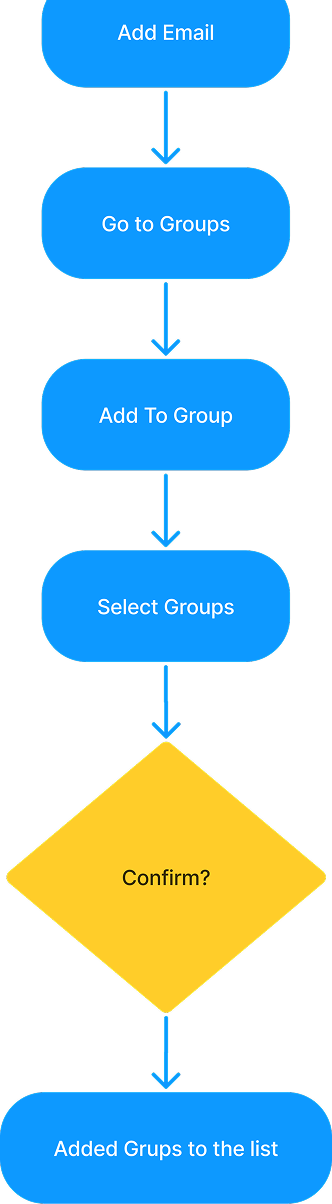
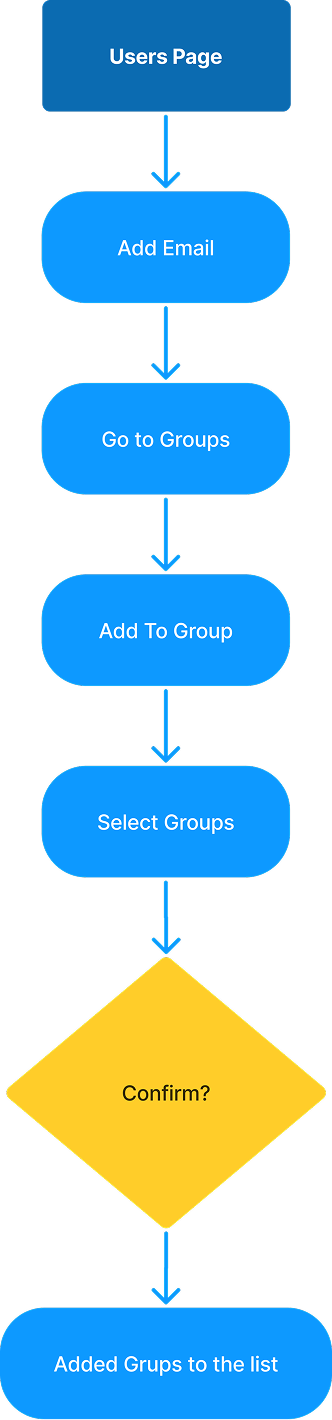
Scandlearn: full old flows, notes as speech bubbles beside the steps
Claude-Session: https://claude.ai/code/session_01UAuYD3GSVDpo2nKg4qsctN

diff --git a/scandlearn/index.html b/scandlearn/index.html
@@ -8,8 +8,8 @@
 <link rel="preconnect" href="https://fonts.googleapis.com">
 <link rel="preconnect" href="https://fonts.gstatic.com" crossorigin>
 <link href="https://fonts.googleapis.com/css2?family=Geist:wght@400;500;600&family=Instrument+Serif:ital@0;1&display=swap" rel="stylesheet">
-<link rel="stylesheet" href="../styles.css?v=202611172116">
-<link rel="stylesheet" href="../case.css?v=202611172116">
+<link rel="stylesheet" href="../styles.css?v=202611172120">
+<link rel="stylesheet" href="../case.css?v=202611172120">
 
 </head>
 <body class="cs dark-stage v2 dark-end scandlearn">
@@ -33,10 +33,10 @@
   <div class="tldr"><p class="tldr-h">The short version</p><ol><li><a href="#navigation"><b>Each role sees its own pages first.</b> Seven clear sections replaced a sitemap where some pages sat seven levels deep.</a></li><li><a href="#search"><b>Search became the main way around.</b> One search across trainings, modules, users and materials, one ⌘K away.</a></li><li><a href="#flows"><b>No more starting over.</b> Curriculum content is picked from one filtered list, so cancelling no longer throws your work away.</a></li></ol></div>
   </div>
   <nav class="chapters" aria-label="Sections"><div><a href="#problem">Problem</a><a href="#research">Research</a><a href="#navigation">Navigation</a><a href="#search">Search</a><a href="#flows">Flows</a><a href="#training-list">Training list</a><a href="#learners">Learners</a><a href="#components">Components</a><a href="#outcome">Outcome</a></div></nav>
-  <article class="cs-body"><section id="problem" class=""><h2>The problem</h2><div class="split"><p class="big-stat">21<small>steps to publish one training</small></p><p>Support was stretched thin because users couldn't find features. The 2020 handbook sent to me on day one needed 21 numbered steps just to publish a training. In interviews and a survey, people called it "a frustrating maze".</p></div><p>Screens of the old platform, from that handbook. Click any screen to see it whole.</p><figure class="wide old"><div class="old-shot"><img src="../assets/sl-old-crew.webp" alt="The old Crew page: an icon rail, a second column of role and status filters, then the user list. Names and emails are blurred." loading="lazy"><p class="old-strip"><span>Before</span><span>Old version</span></p></div><figcaption>Before: an icon rail, then a filter column, then the list. Three layers of menus before any content.</figcaption></figure><figure class="wide old"><div class="old-shot"><img src="../assets/sl-old-settings.webp" alt="The old Create Training settings: schedule, availability, expiry, expiry cycle, new session, notifications, certificate and survey." loading="lazy"><p class="old-strip"><span>Before</span><span>Old version</span></p></div><figcaption>Before: the last of four tabs every new training went through</figcaption></figure><p><b>Mapping it showed why.</b> Some pages sat seven levels deep. Cancelling meant starting over, and steps repeated.</p><figure class="wide"><img src="../assets/sl-old-sitemap.webp" alt="The old sitemap drawn as levels 0 to 7, with notification and user attribute settings at level 7." loading="lazy"><figcaption>The old sitemap: some pages sat seven levels deep</figcaption></figure><figure class="wide fa-board"><div class="fa-grid"><div class="fa-card"><p class="fa-t">Adding curriculum</p><p class="fa-note">Cancelling forces users to restart from scratch.</p><img src="../assets/sl-fa-curriculum.webp" alt="Old flow: Curriculum page, Add curriculum, Select type, Add item, Confirm, Add to the list. Cancel at Add item goes back to the Curriculum page." loading="lazy"></div><div class="fa-card"><p class="fa-t">Adding a user to a group</p><p class="fa-note">Redundant steps slow down progress.</p><img src="../assets/sl-fa-group.webp" alt="Old flow: Add email, Go to Groups, Add to group, Select groups, Confirm, then the groups are added to the list." loading="lazy"></div><div class="fa-card"><p class="fa-t">Opening a module</p><p class="fa-note">Deep navigation levels slow down core tasks.</p><img src="../assets/sl-fa-module.webp" alt="Old flow: Creative Studio, Modules, Filter by draft, Open module." loading="lazy"></div></div><figcaption><img class="fa-light" src="../assets/sl-fa-light.webp" alt="" width="40" height="45">Flow analysis: where the old flows broke</figcaption></figure></section><section id="research" class="band"><h2>What users and rivals told me</h2><p>In the survey, most people named the system itself as the most frustrating part, ahead of courses, navigation or control.</p><p>I compared Scandlearn with CPaT, Aviation eLearning, Evionica, Leon and Webmanuals. The rivals looked modern but gave admins little control over courses and staff. Scandlearn had that control but buried it under an outdated, crowded interface. So the brief became: <b>keep the control, lose the maze.</b></p><div class="pair"><figure class=""><img src="../assets/sl-survey.webp" alt="Four survey charts, from part of the 30 respondents: comfort with digital platforms, the most frustrating part of the system, apps used most, and the pros of those apps." loading="lazy"><figcaption>Survey charts from part of the 30 respondents, not the whole group</figcaption></figure><figure class=""><img src="../assets/sl-roles.webp" alt="Each role, from Administrator to Learner, Author, Financial and Protocol Manager, with the pages it needs, marked by priority." loading="lazy"><figcaption>Each role and the pages it needs, ranked by use</figcaption></figure></div><figure class="wide"><img src="../assets/sl-competitors.webp" alt="Competitor matrix comparing Scandlearn, CPaT, Aviation eLearning and Evionica on value proposition, advantages, disadvantages and design details." loading="lazy"><figcaption>Competitor analysis</figcaption></figure></section><section id="navigation" class=""><h2>Navigation by role</h2><p>Admins, authors, instructors and learners need different things. Starting from the role map, I rebuilt the sitemap into seven main sections, each with a few groups, so every role sees its own pages first. Global search, a left panel and a tree of tabs tie them together.</p><figure class="wide"><img src="../assets/sl-new-sitemap.webp" alt="The new sitemap: main navigation with global search, left panel menu and tabs tree view, over seven sections from Dashboard to Configuration." loading="lazy"><figcaption>The new sitemap</figcaption></figure><p><b>The dashboard opens on what needs attention.</b> Key numbers, the latest activity, quick actions to add a training, invite users or make a group, and notifications.</p><figure class="wide board board-dash"><div class="m-stack" role="img" aria-label="Admin dashboard: users enrolled, trainings and currencies, a feed of reports, quick actions for new training, invite users and new group, and notifications."><div class="bd-a"><p class="m-label">At a glance: what needs attention today.</p><div class="m-row "><img class="m-shot" src="../assets/m/dash-stats.webp" data-full="../assets/sl-dashboard.webp" alt="" loading="lazy"></div></div><div class="bd-b"><div class="m-row "><img class="m-shot" src="../assets/m/dash-reports.webp" data-full="../assets/sl-dashboard.webp" alt="" loading="lazy"></div></div><div class="bd-c"><p class="m-label">Quick actions for the most common jobs.</p><div class="m-row "><img class="m-qa" src="../assets/m/qa-0.webp" data-full="../assets/sl-dashboard.webp" alt="" loading="lazy"><img class="m-qa" src="../assets/m/qa-1.webp" data-full="../assets/sl-dashboard.webp" alt="" loading="lazy"></div></div></div><figcaption>The admin dashboard</figcaption></figure></section><section id="search" class="band"><h2>Search as the main way around</h2><p>More menus don't fix findability. One search covers trainings, modules, users and materials, with type filters, a ⌘K shortcut and recent searches, so admins jump straight to what they need.</p><p></p><figure class="wide board board-search"><div class="m-stack" role="img" aria-label="Global search: filter chips for trainings, modules, users and materials, the ⌘K search bar, recent searches and a filtered list of trainings."><div class="bd-a"><p class="m-label">Filter by trainings, modules, users or materials.</p><div class="m-row chips"><img class="m-chip" src="../assets/m/chip-0.webp" data-full="../assets/sl-search.webp" alt="" loading="lazy"><img class="m-chip" src="../assets/m/chip-1.webp" data-full="../assets/sl-search.webp" alt="" loading="lazy"><img class="m-chip" src="../assets/m/chip-2.webp" data-full="../assets/sl-search.webp" alt="" loading="lazy"><img class="m-chip" src="../assets/m/chip-3.webp" data-full="../assets/sl-search.webp" alt="" loading="lazy"></div></div><div class="bd-b"><p class="m-label">⌘K opens search from anywhere.</p><div class="m-row "><img class="m-shot" src="../assets/m/search-bar.webp" data-full="../assets/sl-search.webp" alt="" loading="lazy"></div></div><div class="bd-c"><div class="m-row "><img class="m-shot" src="../assets/m/search-results.webp" data-full="../assets/sl-search.webp" alt="" loading="lazy"></div></div></div><figcaption>Global search</figcaption></figure></section><section id="flows" class=""><h2>Fewer steps, no starting over</h2><p>I redrew the two flows from the analysis above. Curriculum content is now picked from one list with filters, so cancelling no longer throws your picks away. Inviting a user and adding them to a group happen in one place, with no separate Groups page and no confirm step.</p><div class="pair"><figure class=""><img src="../assets/sl-flow-curriculum-new.webp" alt="New curriculum flow: Curriculum page, Add curriculum, all curriculum content, filter and pick content, updated curriculum page." loading="lazy"><figcaption>Adding curriculum: one filtered list</figcaption></figure><figure class=""><img src="../assets/sl-flow-invite-new.webp" alt="New invite flow: from the home page to Users and Groups, add an email and invite, pick groups in a popup, and the list updates." loading="lazy"><figcaption>Inviting a user: invite and group in one place</figcaption></figure></div></section><section id="training-list" class="band"><h2>The training list in three rounds</h2><p>Admins spend most of their day in the training list, so I took it through three rounds. The first wireframe tested the layout. The second moved filters into a side panel and let a row open in place, showing its courses with links straight to each part of the training. The final version put navigation in one sidebar, moved search, columns and filters into the toolbar, and shows who is enrolled at a glance.</p><div class="pair"><figure class=""><img src="../assets/sl-list-v1.webp" alt="First wireframe of the training list: a profile panel, a menu, column filters and a long table." loading="lazy"><figcaption>Round 1: wireframe</figcaption></figure><figure class=""><img src="../assets/sl-list-v2.webp" alt="Second wireframe: a filter panel on the left and one training row opened in place, listing its courses and links to details, curriculum, enrollment, schedule, certification, skills test and survey." loading="lazy"><figcaption>Round 2: a row opens in place</figcaption></figure></div><figure class="wide"><img src="../assets/sl-list-final.webp" alt="Final Training Management screen: dark sidebar with sub-pages, a toolbar with search, columns and filters, and a table with type, enrolled people and status." loading="lazy"><figcaption>Final: Training Management</figcaption></figure></section><section id="learners" class=""><h2>What learners see</h2><p>Learners need two things: what to do next and where they stand. Their list shows progress, expiry and one Resume button. Inside a training, the course outline stays on the side with each lesson's status, so nobody loses their place.</p><figure class="wide"><img src="../assets/sl-learner-list.webp" alt="Learner trainings list with tabs for yet to start, in progress and completed, a progress bar per training, expiry dates and a Resume button." loading="lazy"><figcaption>A learner's trainings</figcaption></figure><figure class="wide"><img src="../assets/sl-learner-player.webp" alt="Course player in dark mode: a self-study lesson with a download button, and the course outline on the right with each lesson&#x27;s status." loading="lazy"><figcaption>Inside a training: the outline stays visible</figcaption></figure></section><section id="components" class=""><h2>One component library</h2><p>A shared library of type, colours, inputs, pickers and tables with row actions kept 400+ screens consistent. It also made bigger tools, like the certificate builder, quick to put together.</p><figure class="wide board board-ds"><div class="m-stack" role="img" aria-label="Component library: Montserrat type scale, colour palettes, grid, date picker, dropdown, inputs, toggles, icons and buttons."><div class="bd-a"><p class="m-label">Type scale</p><div class="m-row "><img class="m-shot" src="../assets/m/ds-type.webp" data-full="../assets/sl-design-system.webp" alt="" loading="lazy"></div></div><div class="bd-b"><p class="m-label">Inputs and pickers</p><div class="m-row "><img class="m-shot" src="../assets/m/ds-calendar.webp" data-full="../assets/sl-design-system.webp" alt="" loading="lazy"><img class="m-card" src="../assets/m/ds-dropdown.webp" data-full="../assets/sl-design-system.webp" alt="" loading="lazy"></div></div><div class="bd-c"><p class="m-label">Colour</p><div class="m-row "><img class="m-shot" src="../assets/m/ds-colours.webp" data-full="../assets/sl-design-system.webp" alt="" loading="lazy"></div></div></div><figcaption>The component library</figcaption></figure><figure class="wide"><img src="../assets/sl-cert-builder.webp" alt="Certificate builder: drag rows, text boxes and images into a certificate, edit text in place, then save or use a template." loading="lazy"><figcaption>Built from the library: the certificate builder</figcaption></figure></section><section id="outcome" class=""><h2>Outcome</h2><div class="split"><p class="big-stat">400+<small>screens handed over to development</small></p><p>The client kept me on for 4 more months to design a new website, a video player and a CBTA (competency-based training) feature. I left before the build finished, so I have no usage numbers.</p></div></section><section class="lesson"><h2>What I'd do differently</h2><p class="lesson-big">Plan the second survey before the first one ends.</p><p>We had a baseline, the survey, but no plan to measure again. Next time I'd agree before handover to rerun it after launch.</p></section></article>
+  <article class="cs-body"><section id="problem" class=""><h2>The problem</h2><div class="split"><p class="big-stat">21<small>steps to publish one training</small></p><p>Support was stretched thin because users couldn't find features. The 2020 handbook sent to me on day one needed 21 numbered steps just to publish a training. In interviews and a survey, people called it "a frustrating maze".</p></div><p>Screens of the old platform, from that handbook. Click any screen to see it whole.</p><figure class="wide old"><div class="old-shot"><img src="../assets/sl-old-crew.webp" alt="The old Crew page: an icon rail, a second column of role and status filters, then the user list. Names and emails are blurred." loading="lazy"><p class="old-strip"><span>Before</span><span>Old version</span></p></div><figcaption>Before: an icon rail, then a filter column, then the list. Three layers of menus before any content.</figcaption></figure><figure class="wide old"><div class="old-shot"><img src="../assets/sl-old-settings.webp" alt="The old Create Training settings: schedule, availability, expiry, expiry cycle, new session, notifications, certificate and survey." loading="lazy"><p class="old-strip"><span>Before</span><span>Old version</span></p></div><figcaption>Before: the last of four tabs every new training went through</figcaption></figure><p><b>Mapping it showed why.</b> Some pages sat seven levels deep. Cancelling meant starting over, and steps repeated.</p><figure class="wide"><img src="../assets/sl-old-sitemap.webp" alt="The old sitemap drawn as levels 0 to 7, with notification and user attribute settings at level 7." loading="lazy"><figcaption>The old sitemap: some pages sat seven levels deep</figcaption></figure><figure class="wide fa-board"><div class="fa-grid"><div class="fa-card"><p class="fa-t">Adding curriculum</p><div class="fa-flow" style="--w:210px"><img src="../assets/sl-fa-curriculum.webp" alt="Old flow: Curriculum page, Add curriculum, Select type, Add item, Confirm, Add to the list. Cancel at Add item goes back to the Curriculum page." loading="lazy"><p class="fa-bub fa-l" style="top:20%">Cancelling forces users to restart from scratch.</p></div></div><div class="fa-card"><p class="fa-t">Adding a user to a group</p><div class="fa-flow" style="--w:160px"><img src="../assets/sl-fa-group.webp" alt="Old flow: Users page, Add email, Go to Groups, Add to group, Select groups, Confirm, then the groups are added to the list." loading="lazy"><p class="fa-bub fa-l" style="top:29%">Redundant steps slow down progress.</p></div></div><div class="fa-card"><p class="fa-t">Opening a module</p><div class="fa-flow" style="--w:138px"><img src="../assets/sl-fa-module.webp" alt="Old flow: Home page, Training, Creative Studio, Modules, Filter by draft, Open module." loading="lazy"><p class="fa-bub fa-l" style="top:33%">Deep navigation levels slow down core tasks.</p></div></div></div><figcaption><img class="fa-light" src="../assets/sl-fa-light.webp" alt="" width="40" height="45">Flow analysis: where the old flows broke</figcaption></figure></section><section id="research" class="band"><h2>What users and rivals told me</h2><p>In the survey, most people named the system itself as the most frustrating part, ahead of courses, navigation or control.</p><p>I compared Scandlearn with CPaT, Aviation eLearning, Evionica, Leon and Webmanuals. The rivals looked modern but gave admins little control over courses and staff. Scandlearn had that control but buried it under an outdated, crowded interface. So the brief became: <b>keep the control, lose the maze.</b></p><div class="pair"><figure class=""><img src="../assets/sl-survey.webp" alt="Four survey charts, from part of the 30 respondents: comfort with digital platforms, the most frustrating part of the system, apps used most, and the pros of those apps." loading="lazy"><figcaption>Survey charts from part of the 30 respondents, not the whole group</figcaption></figure><figure class=""><img src="../assets/sl-roles.webp" alt="Each role, from Administrator to Learner, Author, Financial and Protocol Manager, with the pages it needs, marked by priority." loading="lazy"><figcaption>Each role and the pages it needs, ranked by use</figcaption></figure></div><figure class="wide"><img src="../assets/sl-competitors.webp" alt="Competitor matrix comparing Scandlearn, CPaT, Aviation eLearning and Evionica on value proposition, advantages, disadvantages and design details." loading="lazy"><figcaption>Competitor analysis</figcaption></figure></section><section id="navigation" class=""><h2>Navigation by role</h2><p>Admins, authors, instructors and learners need different things. Starting from the role map, I rebuilt the sitemap into seven main sections, each with a few groups, so every role sees its own pages first. Global search, a left panel and a tree of tabs tie them together.</p><figure class="wide"><img src="../assets/sl-new-sitemap.webp" alt="The new sitemap: main navigation with global search, left panel menu and tabs tree view, over seven sections from Dashboard to Configuration." loading="lazy"><figcaption>The new sitemap</figcaption></figure><p><b>The dashboard opens on what needs attention.</b> Key numbers, the latest activity, quick actions to add a training, invite users or make a group, and notifications.</p><figure class="wide board board-dash"><div class="m-stack" role="img" aria-label="Admin dashboard: users enrolled, trainings and currencies, a feed of reports, quick actions for new training, invite users and new group, and notifications."><div class="bd-a"><p class="m-label">At a glance: what needs attention today.</p><div class="m-row "><img class="m-shot" src="../assets/m/dash-stats.webp" data-full="../assets/sl-dashboard.webp" alt="" loading="lazy"></div></div><div class="bd-b"><div class="m-row "><img class="m-shot" src="../assets/m/dash-reports.webp" data-full="../assets/sl-dashboard.webp" alt="" loading="lazy"></div></div><div class="bd-c"><p class="m-label">Quick actions for the most common jobs.</p><div class="m-row "><img class="m-qa" src="../assets/m/qa-0.webp" data-full="../assets/sl-dashboard.webp" alt="" loading="lazy"><img class="m-qa" src="../assets/m/qa-1.webp" data-full="../assets/sl-dashboard.webp" alt="" loading="lazy"></div></div></div><figcaption>The admin dashboard</figcaption></figure></section><section id="search" class="band"><h2>Search as the main way around</h2><p>More menus don't fix findability. One search covers trainings, modules, users and materials, with type filters, a ⌘K shortcut and recent searches, so admins jump straight to what they need.</p><p></p><figure class="wide board board-search"><div class="m-stack" role="img" aria-label="Global search: filter chips for trainings, modules, users and materials, the ⌘K search bar, recent searches and a filtered list of trainings."><div class="bd-a"><p class="m-label">Filter by trainings, modules, users or materials.</p><div class="m-row chips"><img class="m-chip" src="../assets/m/chip-0.webp" data-full="../assets/sl-search.webp" alt="" loading="lazy"><img class="m-chip" src="../assets/m/chip-1.webp" data-full="../assets/sl-search.webp" alt="" loading="lazy"><img class="m-chip" src="../assets/m/chip-2.webp" data-full="../assets/sl-search.webp" alt="" loading="lazy"><img class="m-chip" src="../assets/m/chip-3.webp" data-full="../assets/sl-search.webp" alt="" loading="lazy"></div></div><div class="bd-b"><p class="m-label">⌘K opens search from anywhere.</p><div class="m-row "><img class="m-shot" src="../assets/m/search-bar.webp" data-full="../assets/sl-search.webp" alt="" loading="lazy"></div></div><div class="bd-c"><div class="m-row "><img class="m-shot" src="../assets/m/search-results.webp" data-full="../assets/sl-search.webp" alt="" loading="lazy"></div></div></div><figcaption>Global search</figcaption></figure></section><section id="flows" class=""><h2>Fewer steps, no starting over</h2><p>I redrew the two flows from the analysis above. Curriculum content is now picked from one list with filters, so cancelling no longer throws your picks away. Inviting a user and adding them to a group happen in one place, with no separate Groups page and no confirm step.</p><div class="pair"><figure class=""><img src="../assets/sl-flow-curriculum-new.webp" alt="New curriculum flow: Curriculum page, Add curriculum, all curriculum content, filter and pick content, updated curriculum page." loading="lazy"><figcaption>Adding curriculum: one filtered list</figcaption></figure><figure class=""><img src="../assets/sl-flow-invite-new.webp" alt="New invite flow: from the home page to Users and Groups, add an email and invite, pick groups in a popup, and the list updates." loading="lazy"><figcaption>Inviting a user: invite and group in one place</figcaption></figure></div></section><section id="training-list" class="band"><h2>The training list in three rounds</h2><p>Admins spend most of their day in the training list, so I took it through three rounds. The first wireframe tested the layout. The second moved filters into a side panel and let a row open in place, showing its courses with links straight to each part of the training. The final version put navigation in one sidebar, moved search, columns and filters into the toolbar, and shows who is enrolled at a glance.</p><div class="pair"><figure class=""><img src="../assets/sl-list-v1.webp" alt="First wireframe of the training list: a profile panel, a menu, column filters and a long table." loading="lazy"><figcaption>Round 1: wireframe</figcaption></figure><figure class=""><img src="../assets/sl-list-v2.webp" alt="Second wireframe: a filter panel on the left and one training row opened in place, listing its courses and links to details, curriculum, enrollment, schedule, certification, skills test and survey." loading="lazy"><figcaption>Round 2: a row opens in place</figcaption></figure></div><figure class="wide"><img src="../assets/sl-list-final.webp" alt="Final Training Management screen: dark sidebar with sub-pages, a toolbar with search, columns and filters, and a table with type, enrolled people and status." loading="lazy"><figcaption>Final: Training Management</figcaption></figure></section><section id="learners" class=""><h2>What learners see</h2><p>Learners need two things: what to do next and where they stand. Their list shows progress, expiry and one Resume button. Inside a training, the course outline stays on the side with each lesson's status, so nobody loses their place.</p><figure class="wide"><img src="../assets/sl-learner-list.webp" alt="Learner trainings list with tabs for yet to start, in progress and completed, a progress bar per training, expiry dates and a Resume button." loading="lazy"><figcaption>A learner's trainings</figcaption></figure><figure class="wide"><img src="../assets/sl-learner-player.webp" alt="Course player in dark mode: a self-study lesson with a download button, and the course outline on the right with each lesson&#x27;s status." loading="lazy"><figcaption>Inside a training: the outline stays visible</figcaption></figure></section><section id="components" class=""><h2>One component library</h2><p>A shared library of type, colours, inputs, pickers and tables with row actions kept 400+ screens consistent. It also made bigger tools, like the certificate builder, quick to put together.</p><figure class="wide board board-ds"><div class="m-stack" role="img" aria-label="Component library: Montserrat type scale, colour palettes, grid, date picker, dropdown, inputs, toggles, icons and buttons."><div class="bd-a"><p class="m-label">Type scale</p><div class="m-row "><img class="m-shot" src="../assets/m/ds-type.webp" data-full="../assets/sl-design-system.webp" alt="" loading="lazy"></div></div><div class="bd-b"><p class="m-label">Inputs and pickers</p><div class="m-row "><img class="m-shot" src="../assets/m/ds-calendar.webp" data-full="../assets/sl-design-system.webp" alt="" loading="lazy"><img class="m-card" src="../assets/m/ds-dropdown.webp" data-full="../assets/sl-design-system.webp" alt="" loading="lazy"></div></div><div class="bd-c"><p class="m-label">Colour</p><div class="m-row "><img class="m-shot" src="../assets/m/ds-colours.webp" data-full="../assets/sl-design-system.webp" alt="" loading="lazy"></div></div></div><figcaption>The component library</figcaption></figure><figure class="wide"><img src="../assets/sl-cert-builder.webp" alt="Certificate builder: drag rows, text boxes and images into a certificate, edit text in place, then save or use a template." loading="lazy"><figcaption>Built from the library: the certificate builder</figcaption></figure></section><section id="outcome" class=""><h2>Outcome</h2><div class="split"><p class="big-stat">400+<small>screens handed over to development</small></p><p>The client kept me on for 4 more months to design a new website, a video player and a CBTA (competency-based training) feature. I left before the build finished, so I have no usage numbers.</p></div></section><section class="lesson"><h2>What I'd do differently</h2><p class="lesson-big">Plan the second survey before the first one ends.</p><p>We had a baseline, the survey, but no plan to measure again. Next time I'd agree before handover to rerun it after launch.</p></section></article>
   <a class="next" href="../fancircle/"><span class="next-text"><span class="next-k">Next case study</span><b>How do new artists find their first true fans?</b><em>Fancircle<i aria-hidden="true">→</i></em></span><span class="next-img"><img src="../assets/thumb-fancircle.webp" alt="" loading="lazy"></span></a>
 </main>
 <footer class="contact close"><div class="close-in"><p class="close-k">Hiring a product designer?</p><h2>Let's talk.</h2><p class="close-sub">Open to remote roles in EU and US time zones.</p><div class="close-ctas"><span class="cta-split"><a class="cta-y" href="mailto:gencberisha3@gmail.com">Email me</a><button type="button" class="cta-copy" data-copy="gencberisha3@gmail.com" aria-label="Copy email address" title="Copy email address"><svg class="i-copy" width="18" height="18" viewBox="0 0 24 24" fill="none" stroke="currentColor" stroke-width="2" stroke-linecap="round" stroke-linejoin="round" aria-hidden="true"><rect x="9" y="9" width="12" height="12" rx="2.5"/><path d="M5 15H4.5A1.5 1.5 0 0 1 3 13.5v-9A1.5 1.5 0 0 1 4.5 3h9A1.5 1.5 0 0 1 15 4.5V5"/></svg><svg class="i-ok" width="18" height="18" viewBox="0 0 24 24" fill="none" stroke="currentColor" stroke-width="2.4" stroke-linecap="round" stroke-linejoin="round" aria-hidden="true"><path d="M5 12.5l4.5 4.5L19 7.5"/></svg><span class="cta-tip" aria-live="polite"></span></button></span><a class="cta-o" href="../genc-berisha-cv.pdf">Download CV</a><a class="cta-o" href="https://www.linkedin.com/in/genc-berisha">LinkedIn</a></div><p class="fine">© 2026 Genc Berisha · The Qualia Lab</p></div><div class="close-lines" aria-hidden="true"></div></footer>
-<script src="../case.js?v=202611172116"></script>
+<script src="../case.js?v=202611172120"></script>
 </body>
 </html>

diff --git a/case.css b/case.css
@@ -493,7 +493,7 @@ html{overflow-x:clip}
 .cs figure.fa-board .fa-grid{display:grid;grid-template-columns:repeat(3,minmax(0,1fr));gap:20px;align-items:stretch}
 .cs .fa-card{display:flex;flex-direction:column;align-items:center;padding:28px 24px 32px;border-radius:24px;background:rgba(255,255,255,.72);box-shadow:0 1px 0 rgba(20,30,70,.05),0 24px 50px -30px rgba(20,30,70,.35)}
 .cs .fa-card .fa-t{align-self:stretch;margin:0 0 10px;font-size:17px;font-weight:600;color:var(--ink,#16161a)}
-.cs .fa-card .fa-note{align-self:stretch;margin:0 0 28px;padding:10px 14px;border-radius:10px;background:#F21B1B;color:#fff;font-size:15px;font-weight:500;line-height:1.35}
+.cs .fa-card .fa-note-old{align-self:stretch;margin:0 0 28px;padding:10px 14px;border-radius:10px;background:#F21B1B;color:#fff;font-size:15px;font-weight:500;line-height:1.35}
 .cs figure .fa-card img{display:block;width:auto;max-width:100%;max-height:600px;height:auto;border-radius:0;box-shadow:none;background:none;margin:auto 0 0}
 .cs .fa-card img[src*="module"]{max-height:386px}
 .cs .fa-card img[src*="group"]{max-height:600px}
@@ -501,3 +501,19 @@ html{overflow-x:clip}
 .cs figure.fa-board figcaption .fa-light{width:40px;height:auto;margin:-10px 0;border-radius:0;box-shadow:none;background:none}
 @media (max-width:767px){.cs figure.fa-board .fa-grid{grid-template-columns:minmax(0,1fr);gap:16px}.cs .fa-card img{max-height:520px}}
 .cs figure .fa-card img{margin:0}.cs figure.fa-board figcaption .fa-light{width:56px;margin:-14px -6px -14px 0}
+/* Flow notes as speech bubbles (2026-11-17) */
+.cs .fa-card .fa-flow{position:relative;max-width:100%;margin:8px auto 0}
+.cs figure .fa-card .fa-flow img{width:100%;max-height:none}
+.cs .fa-bub{position:absolute;z-index:2;width:150px;margin:0;padding:10px 12px;border-radius:14px;background:#F21B1B;color:#fff;font-size:14px;font-weight:500;line-height:1.3;box-shadow:0 12px 24px -10px rgba(160,10,10,.55)}
+.cs .fa-bub::before{content:"";position:absolute;width:14px;height:14px;background:#F21B1B;transform:rotate(45deg);border-radius:2px}
+.cs .fa-bub.fa-l::before{left:-5px;top:16px}
+.cs .fa-bub.fa-tl::before{left:18px;top:-5px}
+.cs .fa-card{padding-right:24px;overflow:visible}
+@media (min-width:768px){.cs .fa-card .fa-flow{margin-left:max(0px,calc(50% - 150px))}}
+@media (max-width:767px){.cs .fa-card .fa-flow{margin-left:max(0px,calc(50% - 150px))}}
+.cs .fa-card .fa-flow{width:min(var(--w),calc(100% - 150px));margin:8px auto 0 0!important}
+.cs .fa-card .fa-flow-wrap{display:block}
+.cs .fa-bub{left:calc(100% + 12px);width:136px}
+.cs .fa-card{align-items:stretch;padding-left:clamp(20px,3vw,32px)}
+@media (min-width:768px){.cs .fa-card .fa-flow{margin-left:max(0px,calc((100% - var(--w) - 148px)/2))!important}}
+@media (min-width:768px){.cs figure.fa-board .fa-grid{grid-template-columns:1.3fr 1fr 1fr}}

diff --git a/career-navig8r/index.html b/career-navig8r/index.html
@@ -8,8 +8,8 @@
 <link rel="preconnect" href="https://fonts.googleapis.com">
 <link rel="preconnect" href="https://fonts.gstatic.com" crossorigin>
 <link href="https://fonts.googleapis.com/css2?family=Geist:wght@400;500;600&family=Instrument+Serif:ital@0;1&display=swap" rel="stylesheet">
-<link rel="stylesheet" href="../styles.css?v=202611172116">
-<link rel="stylesheet" href="../case.css?v=202611172116">
+<link rel="stylesheet" href="../styles.css?v=202611172120">
+<link rel="stylesheet" href="../case.css?v=202611172120">
 
 </head>
 <body class="cs dark-stage v2 dark-end navig8r">
@@ -68,6 +68,6 @@
   <a class="next" href="../scandlearn/"><span class="next-text"><span class="next-k">Next case study</span><b>How do pilots find their training in a system that feels like a maze?</b><em>Scandlearn<i aria-hidden="true">→</i></em></span><span class="next-img"><img src="../assets/thumb-scandlearn.webp" alt="" loading="lazy"></span></a>
 </main>
 <footer class="contact close"><div class="close-in"><p class="close-k">Hiring a product designer?</p><h2>Let's talk.</h2><p class="close-sub">Open to remote roles in EU and US time zones.</p><div class="close-ctas"><span class="cta-split"><a class="cta-y" href="mailto:gencberisha3@gmail.com">Email me</a><button type="button" class="cta-copy" data-copy="gencberisha3@gmail.com" aria-label="Copy email address" title="Copy email address"><svg class="i-copy" width="18" height="18" viewBox="0 0 24 24" fill="none" stroke="currentColor" stroke-width="2" stroke-linecap="round" stroke-linejoin="round" aria-hidden="true"><rect x="9" y="9" width="12" height="12" rx="2.5"/><path d="M5 15H4.5A1.5 1.5 0 0 1 3 13.5v-9A1.5 1.5 0 0 1 4.5 3h9A1.5 1.5 0 0 1 15 4.5V5"/></svg><svg class="i-ok" width="18" height="18" viewBox="0 0 24 24" fill="none" stroke="currentColor" stroke-width="2.4" stroke-linecap="round" stroke-linejoin="round" aria-hidden="true"><path d="M5 12.5l4.5 4.5L19 7.5"/></svg><span class="cta-tip" aria-live="polite"></span></button></span><a class="cta-o" href="../genc-berisha-cv.pdf">Download CV</a><a class="cta-o" href="https://www.linkedin.com/in/genc-berisha">LinkedIn</a></div><p class="fine">© 2026 Genc Berisha · The Qualia Lab</p></div><div class="close-lines" aria-hidden="true"></div></footer>
-<script src="../case.js?v=202611172116"></script>
+<script src="../case.js?v=202611172120"></script>
 </body>
 </html>

diff --git a/fancircle/index.html b/fancircle/index.html
@@ -8,8 +8,8 @@
 <link rel="preconnect" href="https://fonts.googleapis.com">
 <link rel="preconnect" href="https://fonts.gstatic.com" crossorigin>
 <link href="https://fonts.googleapis.com/css2?family=Geist:wght@400;500;600&family=Instrument+Serif:ital@0;1&display=swap" rel="stylesheet">
-<link rel="stylesheet" href="../styles.css?v=202611172116">
-<link rel="stylesheet" href="../case.css?v=202611172116">
+<link rel="stylesheet" href="../styles.css?v=202611172120">
+<link rel="stylesheet" href="../case.css?v=202611172120">
 
 </head>
 <body class="cs dark-stage scroll-story v2 dark-end">
@@ -37,6 +37,6 @@
   <a class="next" href="../career-navig8r/"><span class="next-text"><span class="next-k">Next case study</span><b>How do we get more mentors to finish their profile?</b><em>Career Navig8r<i aria-hidden="true">→</i></em></span><span class="next-img"><img src="../assets/navig8r-home-feed.webp" alt="" loading="lazy"></span></a>
 </main>
 <footer class="contact close"><div class="close-in"><p class="close-k">Hiring a product designer?</p><h2>Let's talk.</h2><p class="close-sub">Open to remote roles in EU and US time zones.</p><div class="close-ctas"><span class="cta-split"><a class="cta-y" href="mailto:gencberisha3@gmail.com">Email me</a><button type="button" class="cta-copy" data-copy="gencberisha3@gmail.com" aria-label="Copy email address" title="Copy email address"><svg class="i-copy" width="18" height="18" viewBox="0 0 24 24" fill="none" stroke="currentColor" stroke-width="2" stroke-linecap="round" stroke-linejoin="round" aria-hidden="true"><rect x="9" y="9" width="12" height="12" rx="2.5"/><path d="M5 15H4.5A1.5 1.5 0 0 1 3 13.5v-9A1.5 1.5 0 0 1 4.5 3h9A1.5 1.5 0 0 1 15 4.5V5"/></svg><svg class="i-ok" width="18" height="18" viewBox="0 0 24 24" fill="none" stroke="currentColor" stroke-width="2.4" stroke-linecap="round" stroke-linejoin="round" aria-hidden="true"><path d="M5 12.5l4.5 4.5L19 7.5"/></svg><span class="cta-tip" aria-live="polite"></span></button></span><a class="cta-o" href="../genc-berisha-cv.pdf">Download CV</a><a class="cta-o" href="https://www.linkedin.com/in/genc-berisha">LinkedIn</a></div><p class="fine">© 2026 Genc Berisha · The Qualia Lab</p></div><div class="close-lines" aria-hidden="true"></div></footer>
-<script src="../case.js?v=202611172116"></script>
+<script src="../case.js?v=202611172120"></script>
 </body>
 </html>

diff --git a/index.html b/index.html
@@ -10,7 +10,7 @@
 <link rel="preconnect" href="https://fonts.googleapis.com">
 <link rel="preconnect" href="https://fonts.gstatic.com" crossorigin>
 <link href="https://fonts.googleapis.com/css2?family=Geist:wght@400;500;600&family=Instrument+Serif:ital@0;1&display=swap" rel="stylesheet">
-<link rel="stylesheet" href="styles.css?v=202611172116">
+<link rel="stylesheet" href="styles.css?v=202611172120">
 </head>
 <body>
 <a class="skip" href="#work">Skip to work</a>
@@ -121,6 +121,6 @@
 
 <footer class="contact close"><div class="close-in"><p class="close-k">Hiring a product designer?</p><h2>Let's talk.</h2><p class="close-sub">Open to remote roles in EU and US time zones.</p><div class="close-ctas"><span class="cta-split"><a class="cta-y" href="mailto:gencberisha3@gmail.com">Email me</a><button type="button" class="cta-copy" data-copy="gencberisha3@gmail.com" aria-label="Copy email address" title="Copy email address"><svg class="i-copy" width="18" height="18" viewBox="0 0 24 24" fill="none" stroke="currentColor" stroke-width="2" stroke-linecap="round" stroke-linejoin="round" aria-hidden="true"><rect x="9" y="9" width="12" height="12" rx="2.5"/><path d="M5 15H4.5A1.5 1.5 0 0 1 3 13.5v-9A1.5 1.5 0 0 1 4.5 3h9A1.5 1.5 0 0 1 15 4.5V5"/></svg><svg class="i-ok" width="18" height="18" viewBox="0 0 24 24" fill="none" stroke="currentColor" stroke-width="2.4" stroke-linecap="round" stroke-linejoin="round" aria-hidden="true"><path d="M5 12.5l4.5 4.5L19 7.5"/></svg><span class="cta-tip" aria-live="polite"></span></button></span><a class="cta-o" href="genc-berisha-cv.pdf">Download CV</a><a class="cta-o" href="https://www.linkedin.com/in/genc-berisha">LinkedIn</a></div><p class="fine">© 2026 Genc Berisha · The Qualia Lab</p></div><div class="close-lines" aria-hidden="true"></div></footer>
 
-<script src="script.js?v=202611172116" defer></script>
+<script src="script.js?v=202611172120" defer></script>
 </body>
 </html>

diff --git a/_build/case.tpl.html b/_build/case.tpl.html
@@ -8,8 +8,8 @@
 <link rel="preconnect" href="https://fonts.googleapis.com">
 <link rel="preconnect" href="https://fonts.gstatic.com" crossorigin>
 <link href="https://fonts.googleapis.com/css2?family=Geist:wght@400;500;600&family=Instrument+Serif:ital@0;1&display=swap" rel="stylesheet">
-<link rel="stylesheet" href="../styles.css?v=202611172116">
-<link rel="stylesheet" href="../case.css?v=202611172116">
+<link rel="stylesheet" href="../styles.css?v=202611172120">
+<link rel="stylesheet" href="../case.css?v=202611172120">
 {{HEAD}}
 </head>
 <body class="cs {{CLS}}">
@@ -37,6 +37,6 @@
   <a class="next" href="../{{NEXT_SLUG}}/"><span class="next-text"><span class="next-k">Next case study</span><b>{{NEXT_TAG}}</b><em>{{NEXT_TITLE}}<i aria-hidden="true">→</i></em></span><span class="next-img"><img src="../assets/{{NEXT_IMG}}" alt="" loading="lazy"></span></a>
 </main>
 {{FOOTER}}
-<script src="../case.js?v=202611172116"></script>
+<script src="../case.js?v=202611172120"></script>
 </body>
 </html>

diff --git a/_build/scandlearn_v2.py b/_build/scandlearn_v2.py
@@ -39,13 +39,15 @@ def pair(a, b):
 
 
 # Flow analysis rebuilt from Genc's separate flow exports (2026-11-17); the notes are Genc's words, set as text.
-def _fa(img, title, note, alt):
-    return (f'<div class="fa-card"><p class="fa-t">{title}</p><p class="fa-note">{note}</p>'
-            f'<img src="../assets/{img}" alt="{html.escape(alt)}" loading="lazy"></div>')
+def _fa(img, title, note, alt, w, pos, side):
+    # Flow export at half its pixel size (2x export), with the note as a speech bubble pinned next to the step it describes
+    return (f'<div class="fa-card"><p class="fa-t">{title}</p><div class="fa-flow" style="--w:{w}px">'
+            f'<img src="../assets/{img}" alt="{html.escape(alt)}" loading="lazy">'
+            f'<p class="fa-bub fa-{side}" style="{pos}">{note}</p></div></div>')
 FLOW_BOARD = ('<figure class="wide fa-board"><div class="fa-grid">'
-  + _fa("sl-fa-curriculum.webp", "Adding curriculum", "Cancelling forces users to restart from scratch.", "Old flow: Curriculum page, Add curriculum, Select type, Add item, Confirm, Add to the list. Cancel at Add item goes back to the Curriculum page.")
-  + _fa("sl-fa-group.webp", "Adding a user to a group", "Redundant steps slow down progress.", "Old flow: Add email, Go to Groups, Add to group, Select groups, Confirm, then the groups are added to the list.")
-  + _fa("sl-fa-module.webp", "Opening a module", "Deep navigation levels slow down core tasks.", "Old flow: Creative Studio, Modules, Filter by draft, Open module.")
+  + _fa("sl-fa-curriculum.webp", "Adding curriculum", "Cancelling forces users to restart from scratch.", "Old flow: Curriculum page, Add curriculum, Select type, Add item, Confirm, Add to the list. Cancel at Add item goes back to the Curriculum page.", 210, "top:20%", "l")
+  + _fa("sl-fa-group.webp", "Adding a user to a group", "Redundant steps slow down progress.", "Old flow: Users page, Add email, Go to Groups, Add to group, Select groups, Confirm, then the groups are added to the list.", 160, "top:29%", "l")
+  + _fa("sl-fa-module.webp", "Opening a module", "Deep navigation levels slow down core tasks.", "Old flow: Home page, Training, Creative Studio, Modules, Filter by draft, Open module.", 138, "top:33%", "l")
   + '</div><figcaption><img class="fa-light" src="../assets/sl-fa-light.webp" alt="" width="40" height="45">Flow analysis: where the old flows broke</figcaption></figure>')
 
 SL_HERO = ('<figure class="wide cover-desk" aria-label="Scandlearn: the admin training list and the learner course player.">'
